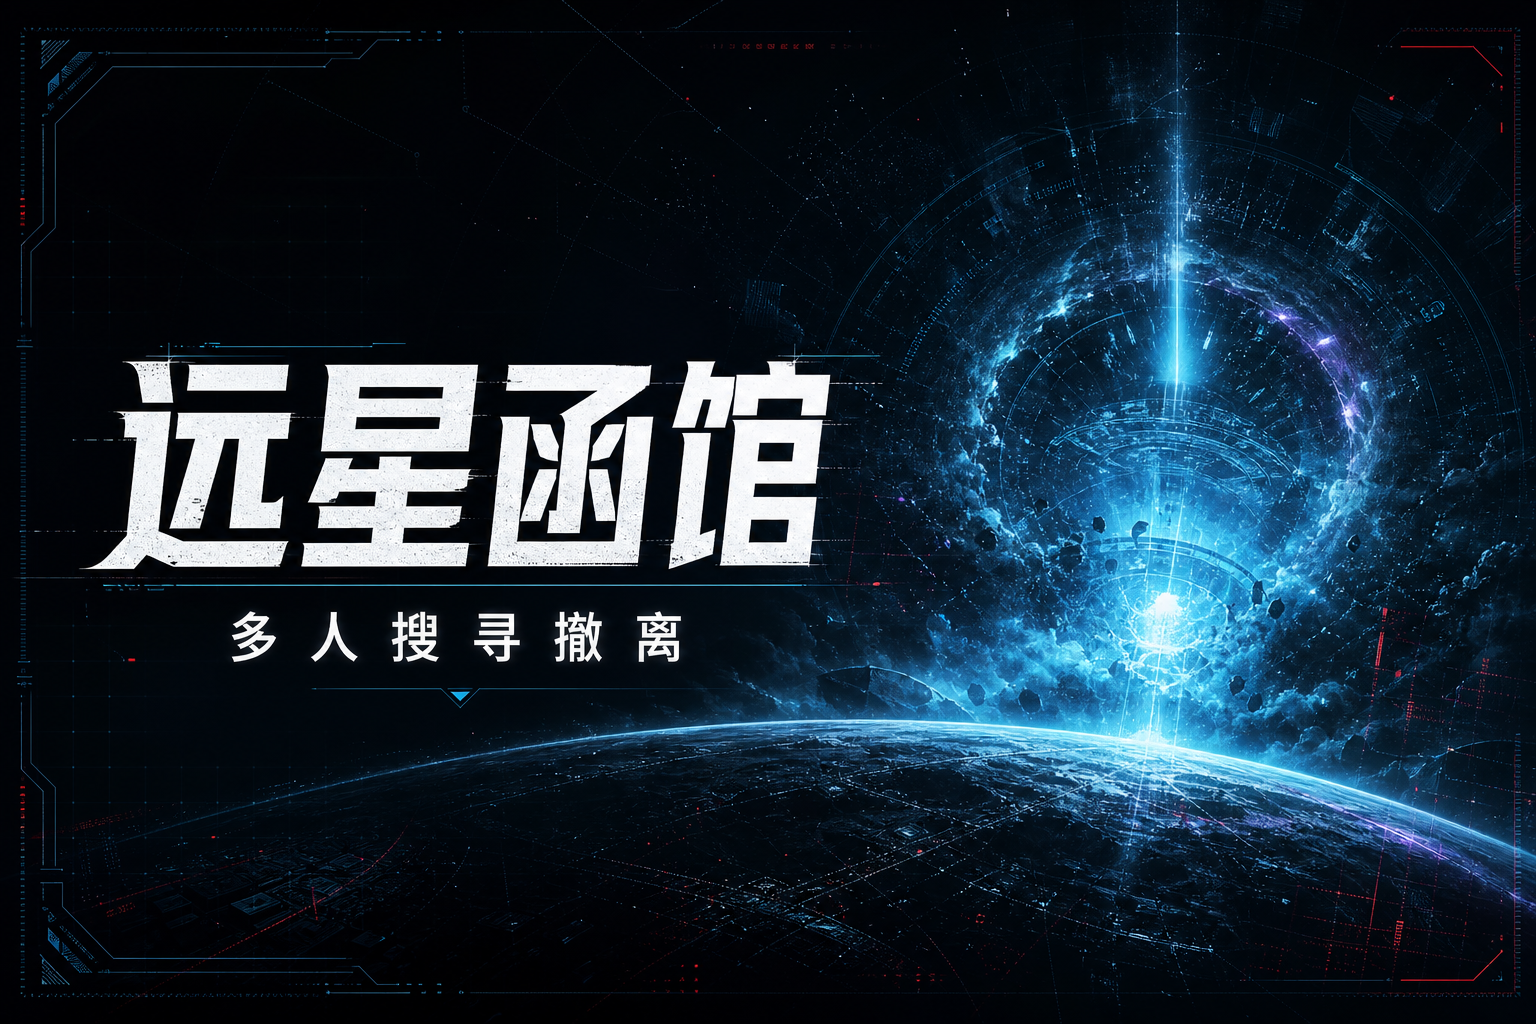
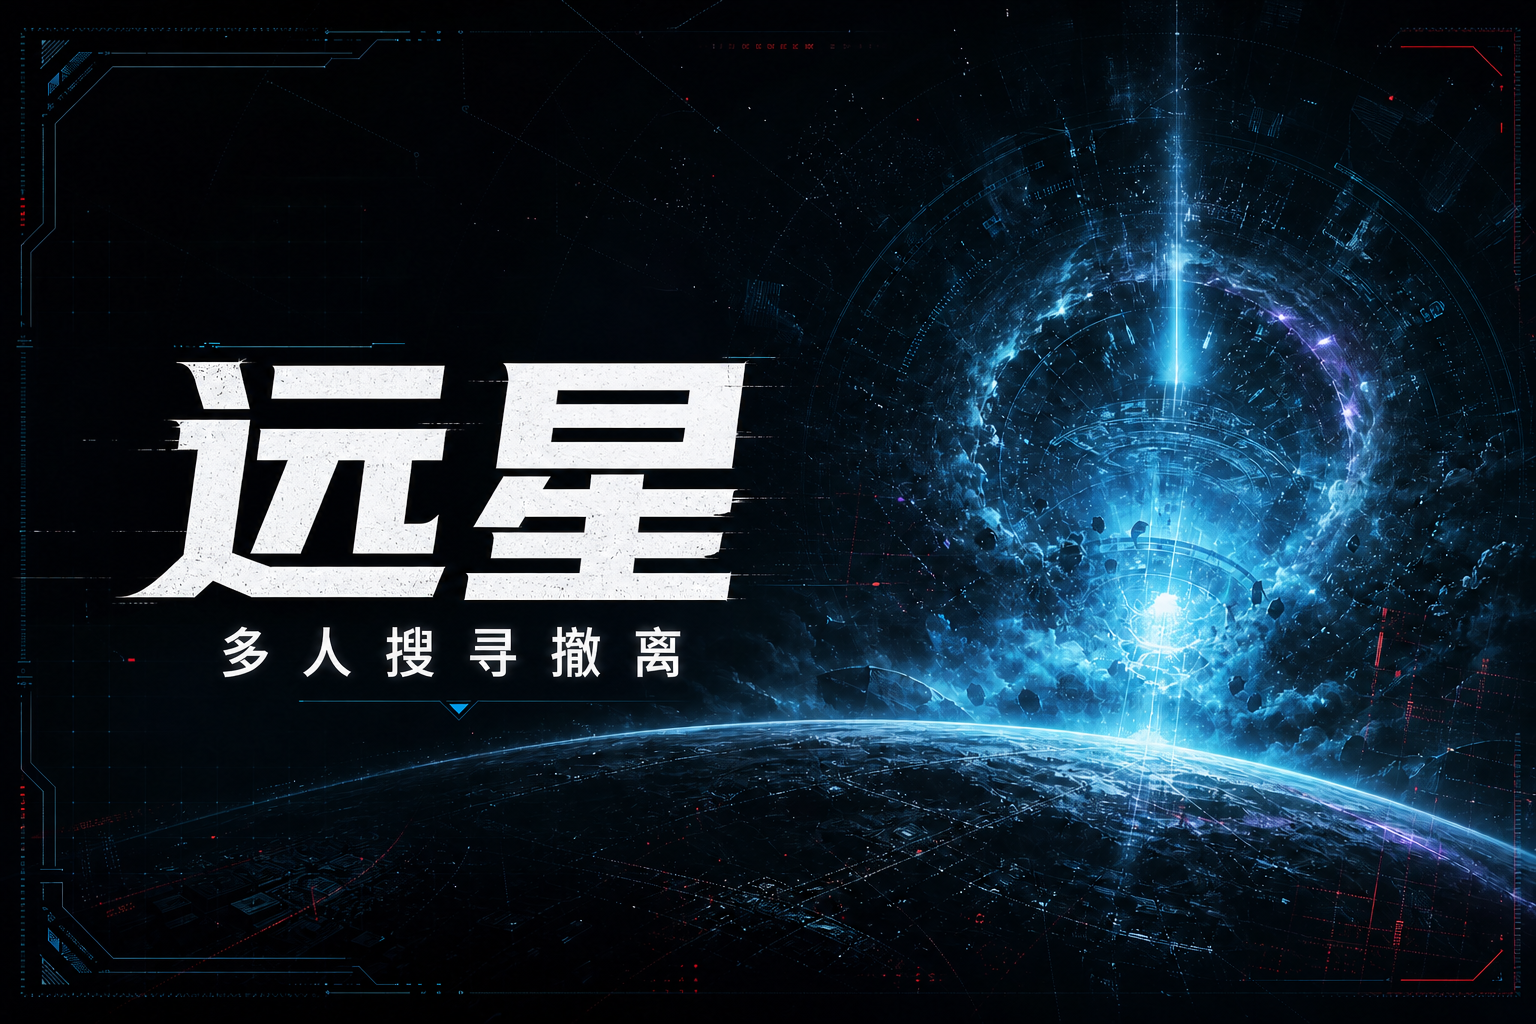
brand: rename project to 远星

diff --git a/src/app/layout.js b/src/app/layout.js
@@ -38,17 +38,17 @@ export async function generateMetadata() {
   const imageUrl = new URL('/og.png', origin).toString()
 
   return {
-    title: '远星函馆',
-    description: '远星函馆 —— 多人搜寻撤离',
+    title: '远星',
+    description: '远星：多人搜寻撤离',
     openGraph: {
-      title: '远星函馆',
-      description: '远星函馆 —— 多人搜寻撤离',
-      images: [{ url: imageUrl, width: 1536, height: 1024, alt: '远星函馆' }],
+      title: '远星',
+      description: '远星：多人搜寻撤离',
+      images: [{ url: imageUrl, width: 1536, height: 1024, alt: '远星' }],
     },
     twitter: {
       card: 'summary_large_image',
-      title: '远星函馆',
-      description: '远星函馆 —— 多人搜寻撤离',
+      title: '远星',
+      description: '远星：多人搜寻撤离',
       images: [imageUrl],
     },
   }

diff --git a/src/components/EntryTransition.jsx b/src/components/EntryTransition.jsx
@@ -73,7 +73,7 @@ export default function EntryTransition({ id, origin, variant = 'auth', onNaviga
   return (
     <div
       role="status"
-      aria-label={`${target}，远星函馆`}
+      aria-label={`${target}，远星`}
       style={{
         position: 'fixed', inset: 0, zIndex: 1000,
         overflow: 'hidden', isolation: 'isolate', pointerEvents: 'all',
@@ -125,7 +125,7 @@ export default function EntryTransition({ id, origin, variant = 'auth', onNaviga
           fontFamily: 'var(--font-jetbrains-mono), monospace', letterSpacing: 0,
           opacity: settled ? 1 : 0.35, transition: 'opacity 180ms ease',
         }}>
-          远星函馆
+          远星
         </div>
       </div>
     </div>

diff --git a/src/app/_shell/RootShell.jsx b/src/app/_shell/RootShell.jsx
@@ -51,7 +51,7 @@ function Nav({ user, onLogout }) {
       <div style={{ maxWidth: 1200, margin: '0 auto', padding: '14px 24px', display: 'flex', justifyContent: 'space-between', alignItems: 'center' }}>
         <div style={{ display: 'flex', alignItems: 'center', gap: 20 }}>
           <Link href="/" style={{ fontWeight: 700, fontSize: 18, color: THEME.accent, textDecoration: 'none', fontFamily: 'var(--font-jetbrains-mono), monospace' }}>
-            远星函馆
+            远星
           </Link>
           <nav style={{ display: 'flex', gap: 4, background: THEME.panel, borderRadius: 10, padding: 4, border: `1px solid ${THEME.border}` }}>
             {links.map(link => (

diff --git a/src/components/fx/ParticleText.jsx b/src/components/fx/ParticleText.jsx
@@ -46,7 +46,7 @@ function useReducedMotion() {
 }
 
 export default function ParticleText({
-  text = '远星函馆',
+  text = '远星',
   mode = 'decode',
   pollution = 0,
   color = '#bc8cff',

diff --git a/src/app/page.js b/src/app/page.js
@@ -1,7 +1,7 @@
 'use client'
 
 /**
- * 首页 / 远星函馆
+ * 首页 / 远星
  *
  * 首页只承担进入游戏的职责；递进式 UI 在 KALEIDO 对局内按解锁状态展开。
  */
